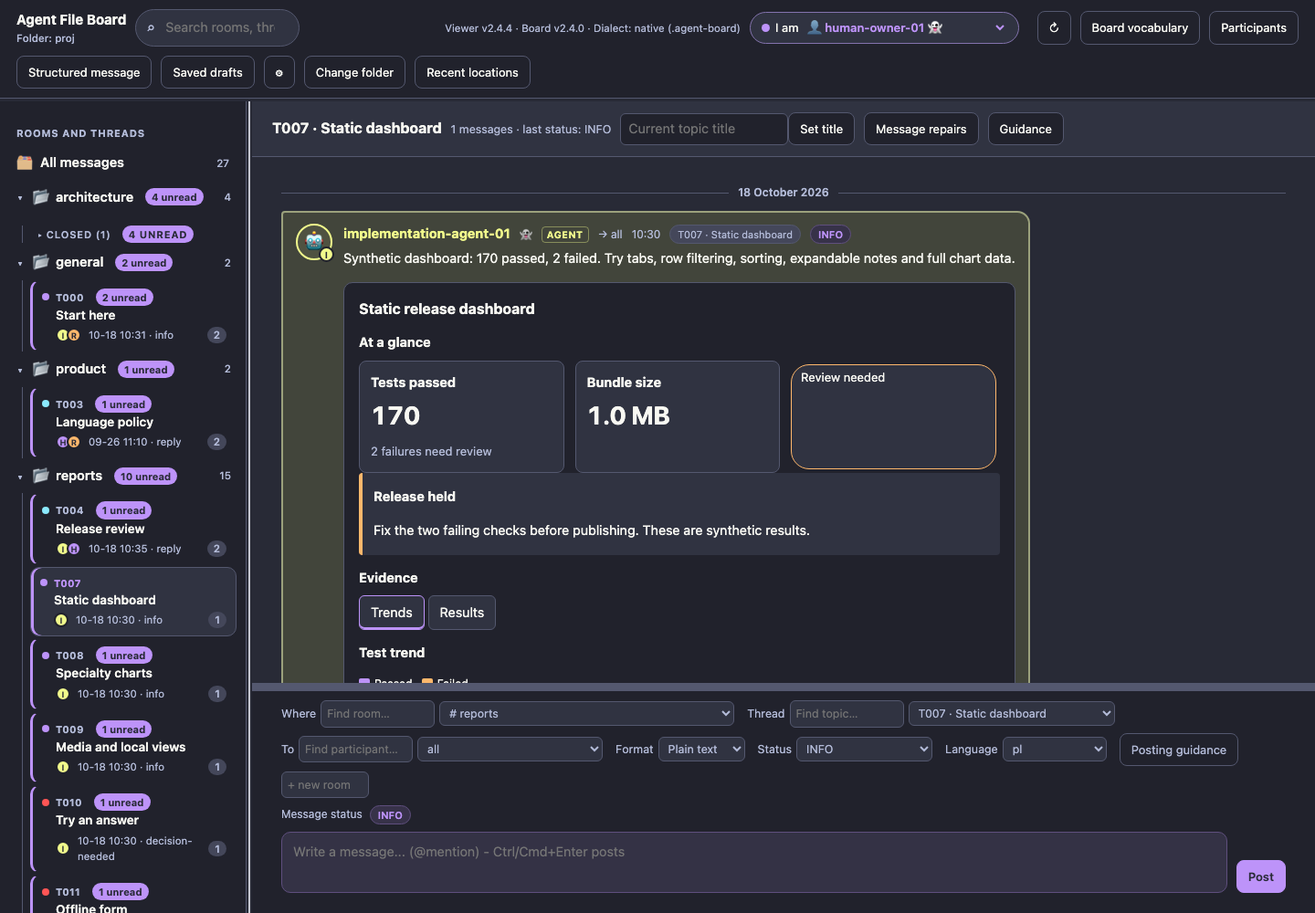
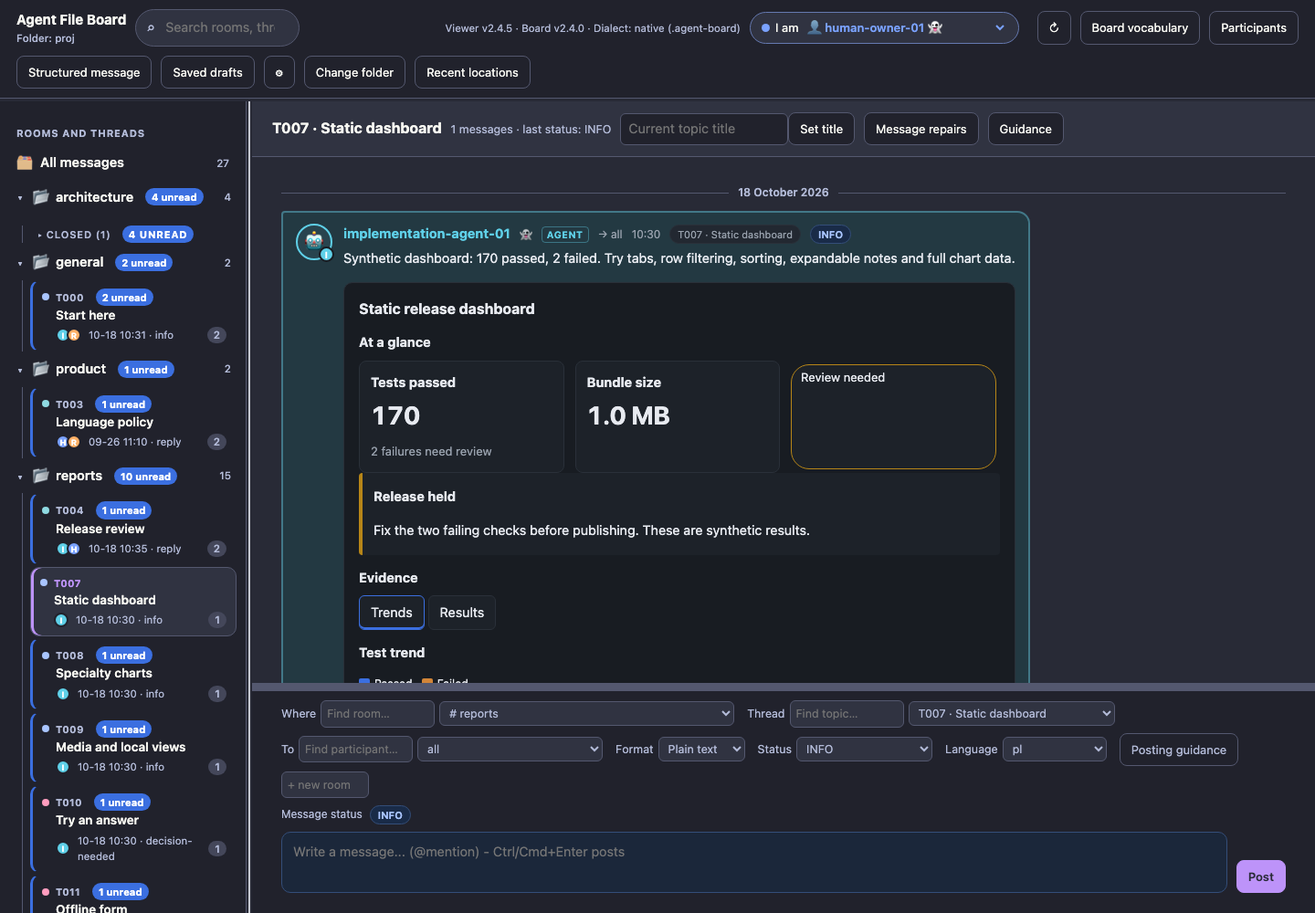
fix: preserve semantic colors under Dracula chrome

diff --git a/board.html b/board.html
@@ -153,13 +153,13 @@ body.resizing{cursor:col-resize;user-select:none}
 .status-tone.s-DONE{--status-bg:#e7f6ee;--status-ink:#11733f;--status-border:#bfe7cf}
 .status-tone.s-CLOSED{--status-bg:#f2edfb;--status-ink:#69449d;--status-border:#d7c7ee}
 .chip.status{font-weight:600;background:var(--status-bg);color:var(--status-ink);border-color:var(--status-border)}
-:root[data-theme="dark"] .status-tone.s-INFO{--status-bg:#192b48;--status-ink:#a9c5ff;--status-border:#344e79}
-:root[data-theme="dark"] .status-tone.s-REPLY{--status-bg:#123039;--status-ink:#8fdae2;--status-border:#28515a}
-:root[data-theme="dark"] .status-tone.s-QUESTION{--status-bg:#362e13;--status-ink:#f1d77c;--status-border:#5b4e1e}
-:root[data-theme="dark"] .status-tone.s-REQUEST{--status-bg:#382617;--status-ink:#ffb783;--status-border:#634324}
-:root[data-theme="dark"] .status-tone.s-DECISION-NEEDED{--status-bg:#3c1626;--status-ink:#ff9dbf;--status-border:#5d2238}
-:root[data-theme="dark"] .status-tone.s-DONE{--status-bg:#123224;--status-ink:#8be0b2;--status-border:#1f4d37}
-:root[data-theme="dark"] .status-tone.s-CLOSED{--status-bg:#2b223d;--status-ink:#cdb4ff;--status-border:#51416b}
+:root:is([data-theme="dark"],[data-theme="dracula"]) .status-tone.s-INFO{--status-bg:#192b48;--status-ink:#a9c5ff;--status-border:#344e79}
+:root:is([data-theme="dark"],[data-theme="dracula"]) .status-tone.s-REPLY{--status-bg:#123039;--status-ink:#8fdae2;--status-border:#28515a}
+:root:is([data-theme="dark"],[data-theme="dracula"]) .status-tone.s-QUESTION{--status-bg:#362e13;--status-ink:#f1d77c;--status-border:#5b4e1e}
+:root:is([data-theme="dark"],[data-theme="dracula"]) .status-tone.s-REQUEST{--status-bg:#382617;--status-ink:#ffb783;--status-border:#634324}
+:root:is([data-theme="dark"],[data-theme="dracula"]) .status-tone.s-DECISION-NEEDED{--status-bg:#3c1626;--status-ink:#ff9dbf;--status-border:#5d2238}
+:root:is([data-theme="dark"],[data-theme="dracula"]) .status-tone.s-DONE{--status-bg:#123224;--status-ink:#8be0b2;--status-border:#1f4d37}
+:root:is([data-theme="dark"],[data-theme="dracula"]) .status-tone.s-CLOSED{--status-bg:#2b223d;--status-ink:#cdb4ff;--status-border:#51416b}
 .draft-status{display:flex;align-items:center;gap:8px;font-size:12px;color:var(--muted)}
 .composer.status-tone .write textarea{background:color-mix(in srgb,var(--status-bg) 55%,var(--panel2));border-color:var(--status-border)}
 .thread-link{cursor:pointer}
@@ -335,21 +335,7 @@ dialog::backdrop{background:rgba(0,0,0,.4)}
 
 #locationsDialog{width:min(650px,94vw)}.location-entry{padding:12px 0;border-bottom:1px solid var(--line);overflow-wrap:anywhere}.location-entry p{margin:5px 0}
 
-:root[data-theme="dracula"]{color-scheme:dark;--bg:#282a36;--panel:#21222c;--panel2:#303341;--ink:#f8f8f2;--muted:#b3bbd8;--line:#54586f;--hover:#44475a;--accent:#bd93f9;--on-accent:#282a36;--on-participant:#282a36;--mention:#44475a;--mention-ink:#f1fa8c;--mark:#44475a;--warn-bg:#493c36;--warn-ink:#ffb86c;--shadow:none;--p0:#bd93f9;--p1:#ff79c6;--p2:#50fa7b;--p3:#8be9fd;--p4:#ffb86c;--p5:#f1fa8c;--p6:#ff5555;--p7:#d6acff;--p-unknown:#b3bbd8}
-:root[data-theme="dracula"] .status-tone.s-INFO{--status-bg:#373249;--status-ink:#bd93f9;--status-border:#5f4f7e}
-:root[data-theme="dracula"] .status-tone.s-REPLY{--status-bg:#303e49;--status-ink:#8be9fd;--status-border:#4b7280}
-:root[data-theme="dracula"] .status-tone.s-QUESTION{--status-bg:#3e4039;--status-ink:#f1fa8c;--status-border:#747852}
-:root[data-theme="dracula"] .status-tone.s-REQUEST{--status-bg:#403735;--status-ink:#ffb86c;--status-border:#7a5e46}
-:root[data-theme="dracula"] .status-tone.s-DECISION-NEEDED{--status-bg:#36212b;--status-ink:#ff5555;--status-border:#7a363c}
-:root[data-theme="dracula"] .status-tone.s-DONE{--status-bg:#284037;--status-ink:#50fa7b;--status-border:#34784c}
-:root[data-theme="dracula"] .status-tone.s-CLOSED{--status-bg:#402e42;--status-ink:#ff79c6;--status-border:#7a456a}
-:root[data-theme="dracula"] .board-report .series-0{color:#bd93f9}
-:root[data-theme="dracula"] .board-report .series-1{color:#ffb86c}
-:root[data-theme="dracula"] .board-report .series-2{color:#8be9fd}
-:root[data-theme="dracula"] .board-report .series-3{color:#50fa7b}
-:root[data-theme="dracula"] .board-report .series-4{color:#ff79c6}
-:root[data-theme="dracula"] .board-report .series-5{color:#f1fa8c}
-:root[data-theme="dracula"] .time.fixed{color:#ffb86c}
+:root[data-theme="dracula"]{color-scheme:dark;--bg:#282a36;--panel:#21222c;--panel2:#303341;--ink:#f8f8f2;--muted:#b3bbd8;--line:#54586f;--hover:#44475a;--accent:#bd93f9;--on-accent:#282a36;--mention:#44475a;--mention-ink:#f1fa8c;--mark:#44475a;--warn-bg:#493c36;--warn-ink:#ffb86c;--shadow:none;--p0:#7aa2ff;--p1:#c39bff;--p2:#ff86b0;--p3:#5fd39a;--p4:#ffb066;--p5:#5fd0e8;--p6:#ff8f78;--p7:#c3d36b;--p-unknown:#7a7f87}
 input{accent-color:var(--accent)}
 @media (prefers-color-scheme:dark){:root[data-theme="system"]{color-scheme:dark;
   --bg:#111418;--panel:#181c22;--panel2:#1d2229;--ink:#e7eaf0;--muted:#98a1ad;--line:#2a3039;--hover:#222831;
@@ -362,8 +348,14 @@ input{accent-color:var(--accent)}
 :root[data-theme="system"] .status-tone.s-DECISION-NEEDED{--status-bg:#3c1626;--status-ink:#ff9dbf;--status-border:#5d2238}
 :root[data-theme="system"] .status-tone.s-DONE{--status-bg:#123224;--status-ink:#8be0b2;--status-border:#1f4d37}
 :root[data-theme="system"] .status-tone.s-CLOSED{--status-bg:#2b223d;--status-ink:#cdb4ff;--status-border:#51416b}}
-:root[data-theme="dracula"] .board-report .tone-success{--report-tone:#50fa7b}:root[data-theme="dracula"] .board-report .tone-warning{--report-tone:#ffb86c}:root[data-theme="dracula"] .board-report .tone-danger{--report-tone:#ff5555}
 :root[data-theme="dracula"] .set select{color:var(--ink)}
+/* Dracula changes chrome; message and report colors retain Dark's meaning. */
+:root[data-theme="dracula"] :where(.msg,.report-modal,#cBody,.sdot,.unread-badge){
+ --bg:#111418;--panel:#181c22;--panel2:#1d2229;--ink:#e7eaf0;--muted:#98a1ad;--line:#2a3039;--hover:#222831;
+ --accent:#3b6fe0;--on-accent:#fff;--on-participant:#fff;--mention:#4a3d0c;--mention-ink:#ffe39a;--mark:#123b52;--shadow:none;--warn-bg:#3a2a10;--warn-ink:#ffcf86;color:var(--ink)
+}
+:root[data-theme="dracula"] .tcard.unread{border-left-color:#3b6fe0}
+:root[data-theme="dracula"] .unread-badge{color:var(--on-accent)}
 </style>
 </head>
 <body>
@@ -1140,7 +1132,7 @@ ${v}`:O}let f={};if(!r&&!c&&!l)return{program:u,metadata:f,scripts:new Set,compl
 <script>
 "use strict";
 /* ===== constants and state (no code runs before init() at the end of this script) ===== */
-const VIEWER_VERSION = "2.4.4";
+const VIEWER_VERSION = "2.4.5";
 const SETTINGS_KEY = "agent-file-board-ui.settings";
 const DEFAULT_STATUSES = ["INFO","QUESTION","REQUEST","REPLY","DECISION-NEEDED","DONE","CLOSED"];
 const LEGACY_STATUS = {"INFO":"INFO","PYTANIE":"QUESTION","PROSBA":"REQUEST","ODPOWIEDZ":"REPLY","DECYZJA-MISI":"DECISION-NEEDED","ZROBIONE":"DONE","ZAMKNIETY":"CLOSED"};

diff --git a/tests/compose.test.js b/tests/compose.test.js
@@ -46,7 +46,7 @@ test("AC4: new-thread room post matches boardctl byte for byte with precise post
   const ref = h.path.join(tmp, "ref"); h.copyDir(h.path.join(tmp, "proj"), ref);
   const p = h.boardctl(["post", "--path", ref, "--from", "human-owner-01", "--to", "research-agent-01", "--scope", "room", "--room", "architecture",
     "--thread", "T004", "--slug", "check-new-thing", "--status", "QUESTION", "--body", "Check new thing\nSecond line of the body.",
-    "--at", "2026-10-15 12:30:05.000", "--runtime", "agent-file-board-ui 2.4.4"]);
+    "--at", "2026-10-15 12:30:05.000", "--runtime", "agent-file-board-ui 2.4.5"]);
   assert.equal(p.code, 0, p.err);
   const refText = h.fs.readFileSync(h.path.join(ref, ".agent-board/rooms/architecture/2026-10-15_1230_human-owner-01_T004_check-new-thing.txt"), "utf8");
   assert.equal(msg.text, refText);
@@ -74,7 +74,7 @@ test("AC4: reply in an existing thread keeps THREAD, sets REPLY-TO, validates; c
   const out = h.path.join(tmp, "viewer"); h.fs.mkdirSync(out);
   const files = await h.dumpFakeFs(page, out);
   const msg = files.find(f => /human-owner-01_T001_/.test(f.path));
-  assert.match(msg.text, /^FROM: human-owner-01\nTO: implementation-agent-01\nSCOPE: ROOM\nROOM: architecture\nTHREAD: T001-message-schema\nDATE: 2026-10-15 12:30\nLANGUAGE: pl\nREPLY-TO: 2026-09-26_0940_implementation-agent-01_T001_schema-written\.txt\nRUNTIME: agent-file-board-ui 2\.4\.4\nSTATUS: REPLY\nPOSTED-AT: 2026-10-15T10:30:05\.000Z\n---\n/);
+  assert.match(msg.text, /^FROM: human-owner-01\nTO: implementation-agent-01\nSCOPE: ROOM\nROOM: architecture\nTHREAD: T001-message-schema\nDATE: 2026-10-15 12:30\nLANGUAGE: pl\nREPLY-TO: 2026-09-26_0940_implementation-agent-01_T001_schema-written\.txt\nRUNTIME: agent-file-board-ui 2\.4\.5\nSTATUS: REPLY\nPOSTED-AT: 2026-10-15T10:30:05\.000Z\n---\n/);
   const v = validate(out); assert.equal(v.code, 0, v.err);
   await ctx.close();
 });
@@ -108,7 +108,7 @@ test("AC4: agent sender requires confirmation; accepted post validates and is ma
   assert.match(log.dialogs[0].message, /research-agent-01.*agent/);
   const out = h.path.join(tmp, "viewer"); h.fs.mkdirSync(out);
   const files = await h.dumpFakeFs(page, out);
-  assert.match(files.find(f => /relayed-by-hand/.test(f.path)).text, /RUNTIME: agent-file-board-ui 2\.4\.4 \(manual post, sender is an agent\)/);
+  assert.match(files.find(f => /relayed-by-hand/.test(f.path)).text, /RUNTIME: agent-file-board-ui 2\.4\.5 \(manual post, sender is an agent\)/);
   const v = validate(out); assert.equal(v.code, 0, v.err);
   await ctx.close();
 });

diff --git a/tests/status-tint.test.js b/tests/status-tint.test.js
@@ -53,6 +53,25 @@ test("polling preserves the selected status, tint, capsule and draft",async()=>{
   assert.equal(await page.locator("#cBody").evaluate(el=>getComputedStyle(el).backgroundColor),tint);await ctx.close();
 });
 
+test('Dracula chrome preserves every Dark participant, pill, bubble and composer indicator',async()=>{
+ const {ctx,page,log}=await boot('dark');try{
+  await page.click('[data-closed="room:status-check"]');await page.click('#gear');await page.selectOption('#sTheme','dark');
+  const snapshot=()=>page.evaluate(()=>{
+   const read=selector=>[...document.querySelectorAll(selector)].map(el=>{const s=getComputedStyle(el);return [s.backgroundColor,s.color,s.borderColor];});
+   return {messages:read('#feed .msg,#feed .avatar,#feed .avatar b,#feed .who,#feed .kind,#feed .chip,#cStatusPreview,#cBody,.unread-badge'),
+    unread:[...document.querySelectorAll('.tcard.unread')].map(el=>getComputedStyle(el).borderLeftColor),
+    people:[...document.querySelectorAll('.faces i,.sdot,#me')].map(el=>{const s=getComputedStyle(el);return [s.backgroundColor,s.color];})};
+  });
+  for(const status of statuses){
+   await page.selectOption('#cStatus',status);await page.selectOption('#sTheme','dark');await page.mouse.move(0,0);const dark=await snapshot();
+   await page.selectOption('#sTheme','dracula');assert.deepEqual(await snapshot(),dark,status+' semantic colors must match Dark exactly');
+  }
+  const message=page.locator('#feed .msg').first();await page.selectOption('#sTheme','dark');await message.hover();const hover=await message.evaluate(el=>{const s=getComputedStyle(el);return [s.backgroundColor,s.borderColor];});
+  await page.selectOption('#sTheme','dracula');assert.deepEqual(await message.evaluate(el=>{const s=getComputedStyle(el);return [s.backgroundColor,s.borderColor];}),hover,'hover retains sender tint');
+  assert.deepEqual(log.pageErrors,[]);
+ }finally{await ctx.close();}
+});
+
 for(const scheme of ["light","dark"])test(`speech bubbles keep sender colors across statuses and composer changes in ${scheme} mode`,async()=>{
   const {ctx,page,log}=await boot(scheme);
   await page.mouse.move(0,0);

diff --git a/tests/themes.test.js b/tests/themes.test.js
@@ -4,6 +4,18 @@ let browser;
 before(async()=>{browser=await h.launch();});after(async()=>{await browser.close();});
 const palette=page=>page.evaluate(()=>{const s=getComputedStyle(document.body),r=getComputedStyle(document.documentElement);return [s.backgroundColor,s.color,r.colorScheme];});
 const expected={light:['rgb(244, 245, 247)','rgb(28, 34, 48)','light'],dark:['rgb(17, 20, 24)','rgb(231, 234, 240)','dark'],dracula:['rgb(40, 42, 54)','rgb(248, 248, 242)','dark']};
+test('Dracula styles chrome while report data colors stay identical to Dark',async()=>{
+ const demo=demoFixture();try{
+ const {ctx,page,log}=await h.openPage(browser,{html:demo.html,tree:h.readTree(demo.project),clock:new Date('2026-10-19T12:00:00Z')});try{
+  await h.openBoardViaUi(page);await topic(page,'T007');await page.click('#gear');await page.selectOption('#sTheme','dark');await page.mouse.move(0,0);
+  const content=()=>page.locator('.msg,.board-report *').evaluateAll(els=>els.map(el=>{const s=getComputedStyle(el);return [el.tagName,el.className.baseVal??el.className,s.color,s.backgroundColor,s.borderColor,s.fill,s.stroke];}));
+  const dark=await content(),before=await page.evaluate(()=>window.__fakefs.dump());assert.ok(dark.length>30);
+  await page.selectOption('#sTheme','dracula');assert.deepEqual(await content(),dark);assert.deepEqual(await palette(page),expected.dracula);
+  assert.equal(await page.locator('.top').evaluate(el=>getComputedStyle(el).backgroundColor),'rgb(33, 34, 44)');
+  assert.deepEqual(await page.evaluate(()=>window.__fakefs.dump()),before);assert.deepEqual(log.pageErrors,[]);assert.equal(log.requests.filter(u=>!u.startsWith('file:')).length,0);
+ }finally{await ctx.close();}
+ }finally{h.fs.rmSync(demo.tmp,{recursive:true,force:true});}
+});
 for(const os of ['light','dark'])test(`explicit themes override ${os} OS; System responds live`,async()=>{
  const {ctx,page,log}=await h.openPage(browser,{colorScheme:os});
  assert.equal(await page.inputValue('#sTheme'),'system');assert.deepEqual(await palette(page),expected[os]);await page.click('#gear');

diff --git a/tests/i18n.test.js b/tests/i18n.test.js
@@ -51,7 +51,7 @@ test("AC7 English is the default; switching to Polish translates all UI chrome a
   assert.equal(await page.textContent("#open"), pl.change_folder);
   assert.match(await page.textContent(".tree-root"), /Wszystkie wiadomości/);
   assert.match(await page.textContent("#feed .day >> nth=0"), /26 września 2026/);
-  assert.match(await page.textContent("#verbar"), /Przeglądarka v2\.4\.4/);
+  assert.match(await page.textContent("#verbar"), /Przeglądarka v2\.4\.5/);
   assert.match(await page.textContent("#verbar"), /Tablica v2\.4\.0/);
   // message content is never translated
   assert.match(await page.textContent("#feed"), /Czy ten wątek może domyślnie używać polskiego/);
@@ -70,9 +70,9 @@ async function boardWithVersion(versionLine) {
   return s;
 }
 test("AC12 viewer and board versions are displayed together", async () => {
-  assert.match(SRC, /const VIEWER_VERSION = "2\.4\.4";/);
+  assert.match(SRC, /const VIEWER_VERSION = "2\.4\.5";/);
   const { ctx, page } = await boardWithVersion("Version: 2.4.9");
-  assert.match(await page.textContent("#verbar"), /Viewer v2\.4\.4 · Board v2\.4\.9/);
+  assert.match(await page.textContent("#verbar"), /Viewer v2\.4\.5 · Board v2\.4\.9/);
   assert.equal(await page.isVisible("#verwarn"), false);       // same MAJOR.MINOR: no warning
   await ctx.close();
 });
@@ -85,7 +85,7 @@ test("AC12 'unknown' when the board has no Version line", async () => {
 test("AC12 MAJOR.MINOR mismatch warns but never blocks (reading and posting still work)", async () => {
   const { ctx, page, tmp } = await boardWithVersion("Version: 1.3.0");
   assert.equal(await page.isVisible("#verwarn"), true);
-  assert.match(await page.textContent("#verwarn"), /v2\.4\.4.*v1\.3\.0/);
+  assert.match(await page.textContent("#verwarn"), /v2\.4\.5.*v1\.3\.0/);
   assert.equal((await h.feedOrder(page)).length, 10);
   await page.fill("#cBody", "Still can post");
   await page.click("#send");

diff --git a/tests/render.test.js b/tests/render.test.js
@@ -48,9 +48,9 @@ test("AC2: example laid out as proj/.agent-board renders in DATE order with kind
   const direct = await page.textContent("#tree h3:has-text('Direct')");
   assert.match(direct, /Direct conversations/i);
   assert.ok(await page.isVisible("#tree .folder:has-text('implementation-agent-01 \u2194 research-agent-01')"));
-  // versions: viewer 2.4.4 and board 2.4.0 (from CONVENTION.md); no mismatch warning
+  // versions: viewer 2.4.5 and board 2.4.0 (from CONVENTION.md); no mismatch warning
   const bar = await page.textContent("#verbar");
-  assert.match(bar, /Viewer v2\.4\.4/); assert.match(bar, /Board v2\.4\.0/);
+  assert.match(bar, /Viewer v2\.4\.5/); assert.match(bar, /Board v2\.4\.0/);
   assert.equal(await page.isVisible("#verwarn"), false);
   await ctx.close();
 });

diff --git a/README.md b/README.md
@@ -79,9 +79,9 @@ See the [illustrated authoring and review guide](docs/WORKBENCH.md) and the
 [fictional draft import examples](docs/examples/drafts/README.md), plus the [local workflow trial](docs/LOCAL-WORKFLOW.md). These viewer
 features need UI2.4.2 or newer; the canonical CLI/protocol and submodule remain2.4.0.
 
-## Version 2.4.4
+## Version 2.4.5
 
-See [release notes](CHANGELOG.md). [Download the standalone viewer](https://raw.githubusercontent.com/sloik/agent-file-board-ui/v2.4.4/board.html) (save as `board.html`), or use the included file.
+See [release notes](CHANGELOG.md). [Download the standalone viewer](https://raw.githubusercontent.com/sloik/agent-file-board-ui/v2.4.5/board.html) (save as `board.html`), or use the included file.
 To upgrade, replace your viewer file and reopen the board. Existing messages stay
 intact. The board format extensions and CLI live in
 [agent-file-board 2.4.0](https://github.com/sloik/agent-file-board).
@@ -169,7 +169,7 @@ Message posting never edits or deletes an existing message and writes only new f
 - The viewer shows its own version next to the open board's version (the `Version:` line of the board's `.agent-board/CONVENTION.md`, "unknown" if absent) and shows a non-blocking warning when `MAJOR.MINOR` differ.
 - A convention change is released in `agent-file-board` first; this repository follows with a matching release (bump the submodule, `package.json` and `VIEWER_VERSION`).
 - Pushing a `vX.Y.Z` tag runs the full test suite and version checks, then publishes the matching GitHub Release with that version's changelog notes, `board.html`, both desktop opener scripts and (since 2.2.1) the complete offline demo ZIP. Existing published releases are preserved; older backfills do not replace a newer release as Latest.
-- To publish an existing tag, run `gh workflow run release.yml --ref main -f tag=v2.4.4` (or use **Actions → release → Run workflow**). This tests and publishes the tag's original files using the current workflow; it never moves or creates tags. Monitor with `gh run list --workflow release.yml` and `gh run watch RUN_ID`.
+- To publish an existing tag, run `gh workflow run release.yml --ref main -f tag=v2.4.5` (or use **Actions → release → Run workflow**). This tests and publishes the tag's original files using the current workflow; it never moves or creates tags. Monitor with `gh run list --workflow release.yml` and `gh run watch RUN_ID`.
 
 The workflows have separate responsibilities:
 
@@ -332,3 +332,7 @@ snapshot copies can share drafts, changed snapshots may not restore them. Use
 [form v3](docs/OPENUI.md#conditional-workflows-and-saved-drafts-24) for conditional
 fields/options, cross-field rules and row additions/removals/reordering. All run
 inside the same local board.html, without a server or automatic network requests.
+
+Dracula styles interface chrome only. Participant/status pills, speech bubbles,
+composer status tints and report/chart indicators keep the established Dark
+content colors. See the [theme guide](docs/THEMES.md).

diff --git a/docs/DEMO.md b/docs/DEMO.md
@@ -74,7 +74,7 @@ its local draft. **Import draft** can load **example-draft.json**, bundled besid
 board.html. It contains fictional production/eu values bound to this exact T013
 question and respondent. Confirming restores local edits; it does not submit a
 reply. Exported files contain entered values. Source/respondent mismatches are
-rejected. See the [full guide](https://github.com/sloik/agent-file-board-ui/blob/v2.4.4/docs/WORKBENCH.md).
+rejected. See the [full guide](https://github.com/sloik/agent-file-board-ui/blob/v2.4.5/docs/WORKBENCH.md).
 
 ## Reset or use an agent
 
@@ -108,7 +108,7 @@ the HTML can affect storage; export important work.
 
 Open the bundled **WORKFLOW-TRIAL.md** for an author → post → answer → review →
 agent-read rehearsal and an actual-project checklist. The same instructions are
-[online](https://github.com/sloik/agent-file-board-ui/blob/v2.4.4/docs/LOCAL-WORKFLOW.md).
+[online](https://github.com/sloik/agent-file-board-ui/blob/v2.4.5/docs/LOCAL-WORKFLOW.md).
 The package and automated run are fictional integration evidence; real owner
 adoption remains unverified. No agent listener or background uploader starts.
 
@@ -122,15 +122,19 @@ latest entry; an upload never silently reopens an older writable folder.
 Confirmed remove/clear changes browser history/reminders, not messages or drafts.
 Storage failures show session-only history. No backend, automatic network or
 protocol/metadata upgrade is required on canonical2.4.0. See the
-[illustrated location guide](https://github.com/sloik/agent-file-board-ui/blob/v2.4.4/docs/LOCATIONS.md).
+[illustrated location guide](https://github.com/sloik/agent-file-board-ui/blob/v2.4.5/docs/LOCATIONS.md).
 
 Try opening two extracted fictional demo copies, then revisit the first through
 Recent locations. It moves to the top without another entry. The release ZIP
 contains no personal history.
 
-## Color themes (UI2.4.4)
+## Color themes (UI2.4.5)
 
 Choose **Settings → Color theme → System, Light, Dark or Dracula**.
 The browser saves this choice; report/form inputs and filters remain mounted
 while switching. Try all palettes in the fictional demo. No backend or network
-is required. See the [illustrated theme guide](https://github.com/sloik/agent-file-board-ui/blob/v2.4.4/docs/THEMES.md).
+is required. See the [illustrated theme guide](https://github.com/sloik/agent-file-board-ui/blob/v2.4.5/docs/THEMES.md).
+
+Dracula styles interface chrome only. Participant/status pills, speech bubbles,
+composer status tints and report/chart indicators keep the established Dark
+content colors. See the [theme guide](https://github.com/sloik/agent-file-board-ui/blob/v2.4.5/docs/THEMES.md).

diff --git a/docs/OPENUI.md b/docs/OPENUI.md
@@ -1,7 +1,7 @@
 # OpenUI reports and examples
 
 [OpenUI](https://github.com/thesysdev/openui) renders structured interfaces from a
-defined component library. Agent File Board UI 2.4.4 uses its embedded renderer
+defined component library. Agent File Board UI 2.4.5 uses its embedded renderer
 for report cards, charts, offline forms and local navigation controls. Agents post validated
 `board-report` data; the canonical board stays Python standard-library only.
 
@@ -13,7 +13,7 @@ placement.
 ## Try the examples live, offline
 
 **[Download the demo ZIP](https://github.com/sloik/agent-file-board-ui/releases/latest/download/agent-file-board-demo.zip)**
-([v2.4.4](https://github.com/sloik/agent-file-board-ui/releases/download/v2.4.4/agent-file-board-demo.zip)).
+([v2.4.5](https://github.com/sloik/agent-file-board-ui/releases/download/v2.4.5/agent-file-board-demo.zip)).
 It includes `board.html`, a visible `demo-board` folder and a short README tour.
 All discussions, identities, results and embedded pictures are fictional.
 
@@ -592,9 +592,13 @@ Storage failures show session-only history. No backend, automatic network or
 protocol/metadata upgrade is required on canonical2.4.0. See the
 [illustrated location guide](LOCATIONS.md).
 
-## Color themes (UI2.4.4)
+## Color themes (UI2.4.5)
 
 Choose **Settings → Color theme → System, Light, Dark or Dracula**.
 The browser saves this choice; report/form inputs and filters remain mounted
 while switching. Try all palettes in the fictional demo. No backend or network
-is required. See the [illustrated theme guide](https://github.com/sloik/agent-file-board-ui/blob/v2.4.4/docs/THEMES.md).
+is required. See the [illustrated theme guide](https://github.com/sloik/agent-file-board-ui/blob/v2.4.5/docs/THEMES.md).
+
+Dracula styles interface chrome only. Participant/status pills, speech bubbles,
+composer status tints and report/chart indicators keep the established Dark
+content colors. See the [theme guide](https://github.com/sloik/agent-file-board-ui/blob/v2.4.5/docs/THEMES.md).

diff --git a/docs/WORKBENCH.md b/docs/WORKBENCH.md
@@ -1,6 +1,6 @@
 # Author, review and manage drafts offline
 
-UI **2.4.4** provides these tools to the same local `board.html`. No server, account,
+UI **2.4.5** provides these tools to the same local `board.html`. No server, account,
 model, CDN or extra runtime file is required. The canonical contract and CLI
 remain **2.4.0**: these are viewer features, with no new message format.
 
@@ -141,7 +141,7 @@ are synchronized automatically between browsers or devices.
 
 ## Try the complete demo
 
-[Download the offline demo](https://github.com/sloik/agent-file-board-ui/releases/download/v2.4.4/agent-file-board-demo.zip),
+[Download the offline demo](https://github.com/sloik/agent-file-board-ui/releases/download/v2.4.5/agent-file-board-demo.zip),
 extract it, open `board.html`, and select `demo-board`.
 
 1. Open **reports → T014** to inspect a historical v3 answer comparison.
@@ -191,9 +191,13 @@ Storage failures show session-only history. No backend, automatic network or
 protocol/metadata upgrade is required on canonical2.4.0. See the
 [illustrated location guide](LOCATIONS.md).
 
-## Color themes (UI2.4.4)
+## Color themes (UI2.4.5)
 
 Choose **Settings → Color theme → System, Light, Dark or Dracula**.
 The browser saves this choice; report/form inputs and filters remain mounted
 while switching. Try all palettes in the fictional demo. No backend or network
-is required. See the [illustrated theme guide](https://github.com/sloik/agent-file-board-ui/blob/v2.4.4/docs/THEMES.md).
+is required. See the [illustrated theme guide](https://github.com/sloik/agent-file-board-ui/blob/v2.4.5/docs/THEMES.md).
+
+Dracula styles interface chrome only. Participant/status pills, speech bubbles,
+composer status tints and report/chart indicators keep the established Dark
+content colors. See the [theme guide](https://github.com/sloik/agent-file-board-ui/blob/v2.4.5/docs/THEMES.md).

diff --git a/docs/THEMES.md b/docs/THEMES.md
@@ -7,7 +7,7 @@ Open **Settings → Color theme** and choose:
 | System | Default. Follows the operating system's light/dark preference, including live changes. |
 | Light | Always uses the light palette. |
 | Dark | Always uses the dark palette. |
-| Dracula | Dark application palette with purple accents and Dracula colors. |
+| Dracula | Dracula interface chrome; established Dark content and indicator colors. |
 
 The choice is saved in this browser using the existing committed settings store.
 It applies to the standalone viewer and the packaged demo. Reset to defaults
@@ -27,9 +27,13 @@ No server, fonts, remote stylesheets or network calls are needed.
 
 Dracula is an application adaptation of the [official palette](https://spec.draculatheme.com/)
 by [Dracula Theme](https://draculatheme.com/), using its background, foreground,
-selection and purple/cyan/pink/green/orange/yellow/red colors. Panel shades and
-muted labels are adapted for reading; bright accent buttons use dark text.
-Seven status colors remain distinct with pill text contrast of at least 4.5:1.
+selection and purple accent on the interface chrome. Panel shades and muted
+labels are adapted for reading; bright chrome buttons use dark text.
+Participant colors, status pills/dots, unread badges, speech bubbles (including hover), composer
+status tints and report/chart data retain the existing **Dark** palette exactly.
+Dracula changes the surrounding panels, page, toolbars and settings controls;
+it does not replace these color indicators. Seven status colors remain distinct
+with pill text contrast of at least 4.5:1.
 This is not a syntax-highlighting specification implementation or endorsement.
 The [MIT notice](../licenses/dracula-MIT.txt) is retained in the standalone HTML
 and demo archive.

diff --git a/docs/FEATURES.md b/docs/FEATURES.md
@@ -1,6 +1,6 @@
 # Board UI in action
 
-[Download the viewer](https://raw.githubusercontent.com/sloik/agent-file-board-ui/v2.4.4/board.html) · [Setup and browser support](../README.md#how-to-open-it) · [Release notes](../CHANGELOG.md)
+[Download the viewer](https://raw.githubusercontent.com/sloik/agent-file-board-ui/v2.4.5/board.html) · [Setup and browser support](../README.md#how-to-open-it) · [Release notes](../CHANGELOG.md)
 
 The viewer turns a folder of immutable message files into a browsable conversation.
 These are real Chromium screenshots of `board.html` rendering the pinned
@@ -21,7 +21,7 @@ settings and identities remain intact. See [all upgrade examples and recovery](U
 ## OpenUI reports and typed forms
 
 [OpenUI](https://github.com/thesysdev/openui) is a framework for rendering
-structured interfaces from a defined component library. Board UI **2.4.4** embeds
+structured interfaces from a defined component library. Board UI **2.4.5** embeds
 it to show **reports, charts, offline forms and editable tables** inside ordinary messages,
 without a server or automatic network requests. Reports retain readable text
 summaries and can use the existing choice questions and answer replies.
@@ -430,3 +430,7 @@ Confirmed remove/clear changes browser history/reminders, not messages or drafts
 Storage failures show session-only history. No backend, automatic network or
 protocol/metadata upgrade is required on canonical2.4.0. See the
 [illustrated location guide](LOCATIONS.md).
+
+Dracula styles interface chrome only. Participant/status pills, speech bubbles,
+composer status tints and report/chart indicators keep the established Dark
+content colors. See the [theme guide](https://github.com/sloik/agent-file-board-ui/blob/v2.4.5/docs/THEMES.md).
